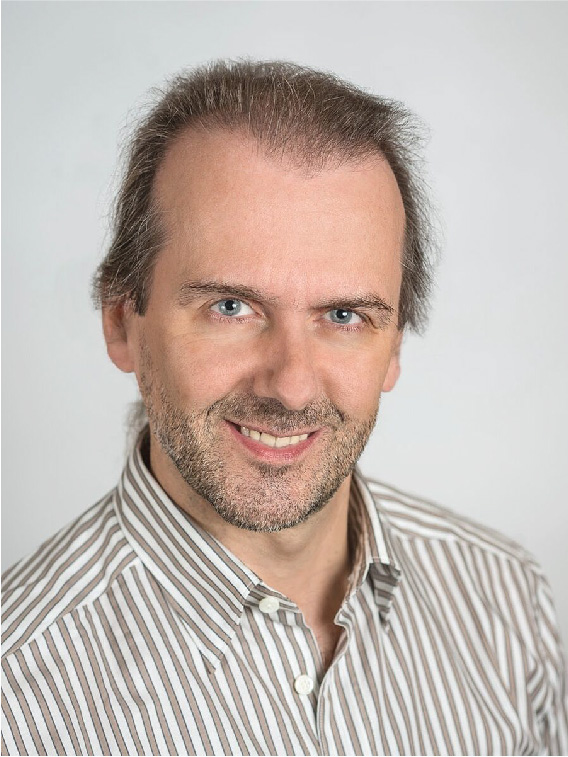
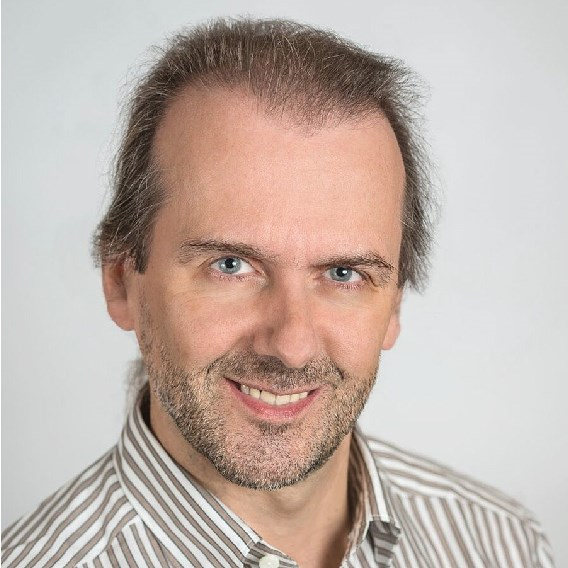
Nome dell'evento foto e stili
- Torino Agile Conference 2018 al posto di mini IAD
- Ridimensionamento foto speaker keynote e revisione stile
- Anchor sistemata per Talk 2 / Speaker 2
- Stile bootstrap sugli Sponsor per rimanere sulla stessa riga se possibile
- Riordinamento staff in ordine alfabetico (cognome)

diff --git a/index.html b/index.html
@@ -3,17 +3,11 @@
   <head>
     <meta charset="utf-8">
     <meta name="viewport" content="width=device-width, initial-scale=1.0">
-    <meta name="description" content="mini IAD Torino 2018 è l'evento
-      Italian Agile Day che va in tournée a Torino. Tratta argomenti
-      come Agile, Lean, Extreme Programming sia a livello di processo
-      che di pratiche.">
+    <meta name="description" content="Torino Agile Conference 2018 - mini IAD Torino 2018 è l'evento Italian Agile Day che va in tournée a Torino. Tratta argomenti come Agile, Lean, Extreme Programming sia a livello di processo che di pratiche.">
     <meta property="og:url" content="http://www.agileday.it/mini/2018/torino/">
-    <meta property="og:title" content="mini Italian Agile Day Torino 2018">
-    <meta property="og:description" content="mini IAD Torino è
-      l'evento Italian Agile Day che va in tourné. Tratta argomenti come
-      Agile, Lean, Extreme Programming sia a livello di processo che di
-      pratiche.">
-    <title>MiniIAD Torino 2018 - Come rispondere al cambiamento? Software e oltre</title>
+    <meta property="og:title" content="Torino Agile Conference 2018 - mini Italian Agile Day Torino 2018">
+    <meta property="og:description" content="mini IAD Torino è l'evento Italian Agile Day che va in tourné. Tratta argomenti come Agile, Lean, Extreme Programming sia a livello di processo che di pratiche.">
+    <title>Torino Agile Conference 2018 - Come rispondere al cambiamento? Software e oltre</title>
     <link rel="shortcut icon" href="img/favicon.png">
     <link rel="icon" type="image/png" href="img/favicon.png">
     <!-- Bootstrap Core CSS -->
@@ -32,14 +26,9 @@
   <body id="page-top" data-spy="scroll" data-target=".navbar-custom">
     <nav class="navbar navbar-custom navbar-fixed-top">
       <div class="container">
-        <div class="navbar-header page-scroll"> <button type="button"
-            class="navbar-toggle" data-toggle="collapse"
-            data-target=".navbar-main-collapse"> </button> <a
-            class="navbar-brand" href="#page-top" style="padding: 15px
-            15px 5px;"><span class="light">mini</span> IAD Torino 2018</a></div>
+        <div class="navbar-header page-scroll"> <button type="button" class="navbar-toggle" data-toggle="collapse" data-target=".navbar-main-collapse"> </button> <a class="navbar-brand" href="#page-top" style="padding: 15px 15px 5px;">Torino Agile <br/><span class="light">Conference 2018</span></a></div>
         <!-- Collect the nav links, forms, and other content for toggling -->
-        <div class="collapse navbar-collapse navbar-right
-          navbar-main-collapse">
+        <div class="collapse navbar-collapse navbar-right navbar-main-collapse">
           <ul class="nav navbar-nav">
             <!-- Hidden li included to remove active class from about link when scrolled up past about section -->
             <li class="hidden"> </li>
@@ -83,11 +72,9 @@
       <div class="row">
         <div class="col-lg-5 col-lg-offset-1">
           <h2>Opening Keynote</h2>
-          <div class="staff_member"> <a
-                  href="" target="_blank">
-            <img src="img/speakers/andrea_provaglio.jpg" alt="Andrea Provaglio"
-                 class="speaker_member_img"> <br>
-            </a> </div>
+          <div class="staff_member">
+			<a href="" target="_blank"><img src="img/speakers/andrea_provaglio.jpg" alt="Andrea Provaglio" class="speaker_member_img"></a>
+		  </div>
           <h3>Andrea provaglio<br/> <em>Managers, Complexity and Agility</em></h3>
 
           <p>How is it like for a manager to work in an environment where knowing the past will hardly help foresee the future? An environment where unpredictability and change are, in fact, the only constant? And how does this affect -- and is affected by -- the kind of intellectual work that is the true asset many organizations have, these days, to generate value?
@@ -102,11 +89,8 @@
         </div>
         <div class="col-lg-5" id="keynote1">
           <h2>Closing Keynote</h2>
-          <div class="staff_member"> <a
-                  href="https://myPersonalAgility.org" target="_blank">
-            <img src="img/speakers/peter_stevens.jpg" alt="Peter Stevens"
-                 class="speaker_member_img"> <br>
-          </a> </div>
+            <div class="staff_member"> <a href="https://myPersonalAgility.org" target="_blank"><img src="img/speakers/peter_stevens.jpg" alt="Peter Stevens" class="speaker_member_img"></a>
+		  </div>
           <h3>Peter Stevens<br/> <em>How to do what matters: From personal satisfaction to professional impact</em></h3>
           <p>Do you have more things to do than time to do them? Many people do. So which things should you do? The ones that matter. Which ones matter? That is a harder question! This talk explains a simple agile framework to help you figure out and do more that really matters. This talk give answers, shares case studies, and shows how the same simple framework becomes a leadership tool to enable your organization to better identify and achieve its goals.</p>
           <div id="rans-bio">
@@ -137,7 +121,7 @@
 	
     <tr><td>10:40</td><td>11:15</td>
       <td class='prtd_sessione alt'><a href='#speaker1'><em>Talk 1</em></a><br>Speaker 1</td>
-      <td class='prtd_sessione alt'><a href='#speker2'><em>Talk 2</em></a> <br> Speaker 2</td>
+      <td class='prtd_sessione alt'><a href='#speaker2'><em>Talk 2</em></a> <br> Speaker 2</td>
       <td class='prtd_workshop' rowspan='5'><a href='#facilitator1'>Workshop <em>1</em></a> <br>Facilitator 1</td>
     </tr>
 	
@@ -328,6 +312,7 @@
               <img width="200"  alt="Torino wireless" src="img/sponsor/torinowireless.png" />
             </a>
           </p>
+		  <br/>
           <h4 style="font-weight: bold"> I nostri sponsor: </h4>
           <div class="row">
             <!--div class="col-lg-3 ">
@@ -335,29 +320,27 @@
                   <img width="150"  alt="Deltatre" src="img/sponsor/deltatre.png" />
                 </a>
             </div-->
-            <div class="col-lg-4">
+            <div class="col-md-4">
               <a href="http://synesthesia.it" target="_blank">
                 <img width="150"  alt="Synesthesia" src="img/sponsor/synesthesia.png" />
               </a>
             </div>
-            <div class="col-lg-4" >
+            <div class="col-md-4">
               <a href="http://10100.to" target="_blank">
                 <img width="150"  alt="10100" src="img/sponsor/10100.png" />
               </a>
             </div>
-            <div class="col-lg-4">
+            <div class="col-md-4">
               <a href="http://www.agilereloaded.it" target="_blank">
                 <img width="150"  alt="Agile Reloaded" src="img/sponsor/agilereloaded.png" />
               </a>
             </div>
 
          </div>
+		 <br/><br/>
           <div class="row">
             <div class="col-lg-12">
-              <p ><a
-                      class="btn btn-default btn-lg btn-iscriviti"
-                      href='https://goo.gl/forms/dw4F6bzyIiRXoDR52' target="_blank">Voglio essere tra gli sponsor</a>
-              </p>
+              <p><a class="btn btn-default btn-lg btn-iscriviti" href='https://goo.gl/forms/dw4F6bzyIiRXoDR52' target="_blank">Voglio essere tra gli sponsor</a> </p>
             </div>
           </div>
         </div>
@@ -414,65 +397,47 @@
       </div>
 
       <div class="row">
-        <div class="col-lg-2 col-lg-offset-2">
+        <div class="col-md-2 col-md-offset-2">
           <div>
             <div class="staff_member">
-              <a href="https://www.linkedin.com/in/pleinad/"
-                 target="_blank"> <img src="img/staff/danielpalmisano.jpg" alt="Daniel
-            Palmisano" class="staff_member_img"></a> </div>
-            <div><a href="https://www.linkedin.com/in/pleinad/"
-                    target="_blank">
-              Daniel Palmisano</a></div>
-          </div>
-        </div>
-        <div class="col-lg-2">
-          <div>
-            <div class="staff_member">
-              <a href="https://www.linkedin.com/in/lucabergero/"
-                 target="_blank"> <img src="img/staff/lucabergero.jpg" alt="Luca
-              Bergero" class="staff_member_img">  </div>
+              <a href="https://www.linkedin.com/in/lucabergero/" target="_blank"> <img src="img/staff/lucabergero.jpg" alt="Luca Bergero" class="staff_member_img">
+			</div>
             <div>
-              <a href="https://www.linkedin.com/in/lucabergero/"
-                 target="_blank">
-                Luca Bergero</a>
-
+              <a href="https://www.linkedin.com/in/lucabergero/" target="_blank">Luca Bergero</a>
             </div>
           </div>
         </div>
-        <div class="col-lg-2">
+        <div class="col-md-2">
           <div>
             <div class="staff_member">
-              <a href="https://www.linkedin.com/in/marcosaccenti/"
-                 target="_blank"> <img src="img/staff/marcosaccenti.jpg" alt="Marco
-              Saccenti" class="staff_member_img">  </a>
+              <a href="https://www.linkedin.com/in/pdecandia/" target="_blank"><img src="img/staff/pinodecandia.png" alt="Pino Decandia" class="staff_member_img"></a>
             </div>
             <div>
-              <a href="https://www.linkedin.com/in/marcosaccenti/"
-                 target="_blank">
-                Marco Saccenti</a>
-
+              <a href="https://www.linkedin.com/in/pdecandia/" target="_blank">Pino Decandia</a>
             </div>
           </div>
         </div>
-        <div class="col-lg-2">
+        <div class="col-md-2">
           <div>
             <div class="staff_member">
-              <a href="https://www.linkedin.com/in/pdecandia/"
-                 target="_blank"> <img src="img/staff/pinodecandia.png" alt="Pino
-              Decandia" class="staff_member_img"> </a>
+              <a href="https://www.linkedin.com/in/pleinad/" target="_blank"><img src="img/staff/danielpalmisano.jpg" alt="Daniel Palmisano" class="staff_member_img"></a>
+			</div>
+            <div>
+			  <a href="https://www.linkedin.com/in/pleinad/" target="_blank">Daniel Palmisano</a>
+			</div>
+          </div>
+        </div>
+        <div class="col-md-2">
+          <div>
+            <div class="staff_member">
+              <a href="https://www.linkedin.com/in/marcosaccenti/" target="_blank"> <img src="img/staff/marcosaccenti.jpg" alt="Marco Saccenti" class="staff_member_img"></a>
             </div>
             <div>
-              <a href="https://www.linkedin.com/in/pdecandia/"
-                 target="_blank">
-                Pino Decandia</a>
-
+              <a href="https://www.linkedin.com/in/marcosaccenti/" target="_blank">Marco Saccenti</a>
             </div>
           </div>
         </div>
       </div>
-
-
-
 
     <!--  <div class="page-scroll" style="margin-top: 50px"> <a href="#staytuned" class="btn btn-lg"><i class='fa fa-arrow-circle-down fa-4x'></i></a> </div>
     </section> -->
